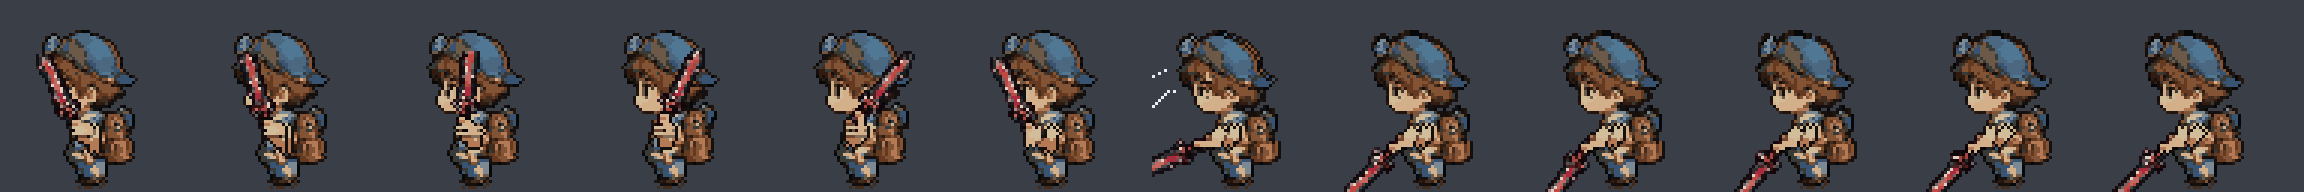
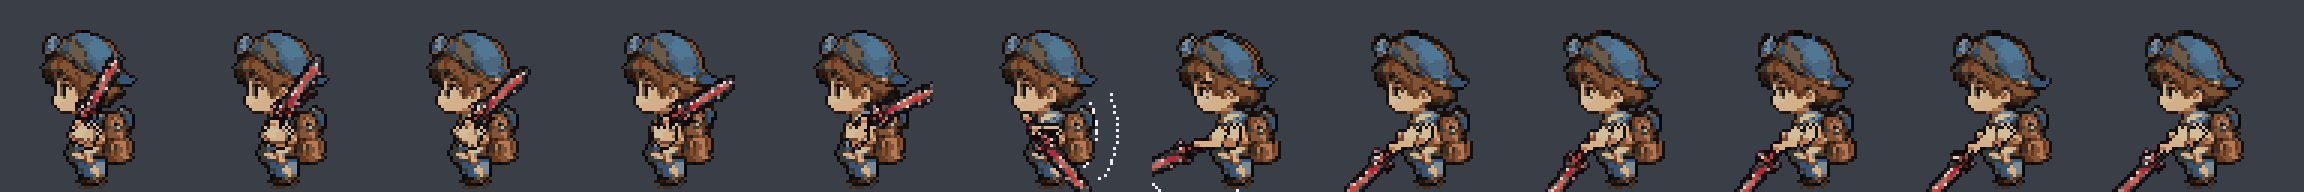
Anim test: SL01 roll polish - tuck pose, dust, shorter kneel, cleaner wind-up, softer waves, sounds
Claude-Session: https://claude.ai/code/session_01GQscemcyhAULQ41Vq3Zx3F

diff --git a/reborner/tools/sprites/rion_rig.py b/reborner/tools/sprites/rion_rig.py
@@ -45,8 +45,11 @@ KEYS = {
 		(0.7, -2, 0, (20, 41), (15, 40), 0), (1.0, 0, 0, (24, 45), (23, 47), 0)],
 	# ชันเข่าฟันสองมือ (kwan 10 ต.ค. "ถึงตัวมอน จับดาบสองมือ ชันเข่าข้างนึง ฟันเต็มแรง") — ใช้หลังกระโดดม้วนลงหน้าเป้า · จบท่าค้างคุกเข่า
 	#   ตัวฐาน = ภาพทรุดเข่า west_k0 (KNEEL_BASE) · ง้างพาดบ่า ดาบอยู่หน้าตัว (ชูเหนือหัวไม่ได้ หัวโตบังหมด) → ฟาดลงหน้า → ค้างคุกเข่า
-	'kneel2': [(0.0, 0, 0, (26, 44), (25, 41), 115), (0.35, 1, 0, (28, 42), (28, 38), 50), (0.5, -2, 0, (21, 47), (17, 48), 205),
+	'kneel2': [(0.0, 0, 0, (26, 44), (26, 41), 60), (0.35, 1, 0, (29, 43), (30, 40), 25),   # ง้างไปหลังเหนือเป้ ใบดาบไม่พาดหน้า
+		 (0.5, -2, 0, (21, 47), (17, 48), 205),
 		(0.62, -2, 0, (21, 48), (17, 50), 235), (1.0, -1, 0, (21, 48), (18, 49), 225)],
+	# ขดตัวม้วนกลางอากาศ (kwan 10 ต.ค. "ปรับท่าม้วนให้เป็นท่าขดตัว") — ตัวฐานทรุดเข่า บีบลำตัว ก้มหัว มือกอดด้ามดาบแนบเข่า ใบชี้ไปหลังเลียบตัว
+	'tuck': [(0.0, 0, 0, (22, 49), (21, 51), 345), (1.0, 0, 0, (22, 49), (21, 51), 345)],
 }
 # สรีระต่อคีย์ (kwan 6 ต.ค. "ร่างกายแข็ง ไม่เป็นธรรมชาติ ปรับสรีระให้เข้ากับทุกแอกชั่น") — เวลาเดียวกับ KEYS ทีละตัว
 #   lean เอนช่วงบน (+ = ไปหลัง/ขวา − = โถมไปหน้า) · sq ย่อเข่า (แถว) · st ก้าวขา (+1 = ขาหน้าก้าวไปหน้าเต็ม −1 = ถอยขาหน้า) ·
@@ -60,16 +63,17 @@ BODY = {
 	'aim': [Z, B(sq=1, st=0.6), B(lean=1, sq=1, st=0.8, hx=-1), B(lean=3, sq=1, st=0.8, hd=1, pk=1), B(lean=1, sq=1, st=0.8, hx=-1), Z],
 	'punch': [B(sq=1, st=0.5), B(sq=1, st=0.5), B(lean=2, sq=2, st=-0.3, ch=1, pk=-1), B(lean=-3, sq=1, st=1, hx=-1, pk=1), B(lean=-2, sq=1, st=1, hd=1), B(sq=1, st=0.5)],
 	'point': [Z, B(lean=1, st=0.4, ch=-1), B(lean=-2, sq=1, st=0.9, hx=-1, pk=1), B(lean=-2, sq=1, st=0.9), Z],
+	'tuck': [B(st=0, sq=7, lean=-6, ch=1, hd=2, hx=-2), B(st=0, sq=7, lean=-6, ch=1, hd=2, hx=-2)],
 	'kneel2': [B(st=0), B(st=0, lean=2, pk=-1), B(st=0, lean=-3, hd=1, hx=-1, pk=1), B(st=0, lean=-3, hd=1, pk=1), B(st=0, lean=-2, hd=1)],
 }
 # มือหลังจับด้ามด้วยในท่าสองมือ (ชดเชยจากมือหน้า) · ประทับปืน มือหลังประคองใต้ลำ
 BACK = {'swing2': (5, 0), 'aim': (5, 1), 'kneel2': 'hilt'}   # hilt = มือหลังจับด้ามถัดลงไปตามแนวด้าม (ดาบตั้ง/เฉียง)
-KNEEL_BASE = {'kneel2': ('west_k0.png', (-1, 4))}   # ตัวฐานต่อท่า + ไหล่เลื่อน (dx, dy) เทียบภาพยืน · ท่านี้อาวุธอยู่หน้าตัวเสมอ
+KNEEL_BASE = {'kneel2': ('west_k0.png', (-1, 4)), 'tuck': ('west_k0.png', (-1, 4))}   # ตัวฐานต่อท่า + ไหล่เลื่อน (dx, dy) เทียบภาพยืน · ท่านี้อาวุธอยู่หน้าตัวเสมอ
 BEHIND_ANG = (15, 110)   # อาวุธชี้ขึ้น/ไปหลัง (มุมจอในช่วงนี้) = อยู่หลังตัว (พาดบ่า · ง้าง) · รอบแรกใช้ช่วงเวลา แล้วอาวุธหายหลังหัว
 FAM = {'SL': 'slash', 'PC': 'thrust', 'CR': 'swing2', 'ST': 'aim', 'BD': 'punch', 'DV': 'point'}
 W_FAM = {'W301': 'SL', 'W302': 'CR', 'W303': 'SL', 'W304': 'CR', 'W305': 'SL', 'W306': 'ST', 'W307': 'CR', 'W308': 'CR', 'W309': 'CR', 'W310': 'ST'}
 LEN_K = {'SL': 0.72, 'PC': 0.95, 'CR': 0.8, 'ST': 0.6}   # ความยาวในมือ / ความยาวรูปในไอคอน 32px
-VARIANTS = [('SL01', 'kneel2', 'K')]   # ท่าพิเศษ: <code><suffix>_<i>.png ไม่อยู่ใน index (rigCodes ไม่เห็น) · หน้าเทสเรียกชื่อตรง
+VARIANTS = [('SL01', 'kneel2', 'K'), ('SL01', 'tuck', 'T')]   # ท่าพิเศษ: <code><suffix>_<i>.png ไม่อยู่ใน index (rigCodes ไม่เห็น) · หน้าเทสเรียกชื่อตรง
 SAMPLES = ['SL01', 'SL30', 'PC01', 'PC30', 'CR01', 'CR30', 'ST01', 'ST30', 'BD01', 'BD30', 'DV07', 'DV29', 'W301', 'W309']
 
 def ease(p): return p * p * (3 - 2 * p)
@@ -193,8 +197,14 @@ def render(code, icon, group=None):
 			if behind: out.alpha_composite(spr, at)
 			out.alpha_composite(body)
 			if group in BACK:
-				bx, by = BACK[group] if BACK[group] != 'hilt' else (-4 * math.cos(math.radians(ang)), 4 * math.sin(math.radians(ang))); sb = mv(SHB); hb = tuple(ri(v) for v in P64.reach(sb, (hd[0] + bx, hd[1] + by))); eb = P64.ik(sb, hb); G.draw_arm(out, sb, (ri(eb[0]), ri(eb[1])), hb, back=True, w_upper=3)
+				bx, by = BACK[group] if BACK[group] != 'hilt' else (-5 * math.cos(math.radians(ang)), 5 * math.sin(math.radians(ang))); sb = mv(SHB); hb = tuple(ri(v) for v in P64.reach(sb, (hd[0] + bx, hd[1] + by))); eb = P64.ik(sb, hb); G.draw_arm(out, sb, (ri(eb[0]), ri(eb[1])), hb, back=True, w_upper=3)
 			if not behind: out.alpha_composite(spr, at)
+			if BACK.get(group) == 'hilt':   # กำปั้นมือหลังทับด้าม (ที่ 64px มือหลังโดนใบดาบบังหมด มองไม่ออกว่าจับสองมือ)
+				px = out.load()
+				for dx2 in (0, 1):
+					for dy2 in (0, 1):
+						q = (hb[0] + dx2 - 1, hb[1] + dy2 - 1)
+						if 0 <= q[0] < 64 and 0 <= q[1] < 64: px[q] = (G.SKIN_D if dy2 else G.SKIN) + (255,)
 			P64.draw_arm_soft(out, sh, el, hd)
 			if prev is not None and abs((ang - prev + 540) % 360 - 180) > SMEAR_DEG: smear(out, hd, prev, ang, L)
 			prev = ang

diff --git a/reborner/CLAUDE.md b/reborner/CLAUDE.md
@@ -625,6 +625,11 @@ Sim ปิดตัวเองเมื่อรัน headless · บรรท
       ตัวฐาน = ภาพทรุดเข่า west_k0 (`KNEEL_BASE` ไหล่ −1,+4) · มือหลังจับด้ามตามแนวด้าม (`BACK 'hilt'`) · ดาบอยู่หน้าตัวทุกเฟรม (ชูเหนือหัวไม่ได้ หัวโตบัง) · ตรวจแล้วริกเดิม 5 ชิ้น 60 เฟรมไม่เปลี่ยนสักพิกเซล
       ข้อจำกัด: ท่าคุกเข่าเป็นภาพเดียว (ไม่ขยับขา) · ช่วงง้างใบดาบพาดผ่านหน้าบางเฟรม
       **ไม่ชะงัก (kwan 10 ต.ค. "ใช้โมเมนตัมที่กระโดดมา")**: กระทบย้ายเป็นเฟรม 32 = แตะพื้น (`ROLL.HIT` 32 · ATK 18) · 3 เฟรมท้ายของการม้วนง้างดาบสองมือกลางอากาศ (ริก SL01K 3–5 หมุนตามตัว) · แตะพื้นแล้วไถลต่อ 7px ใน 4 เฟรม · ฟันวิญญาณ 3 ระลอกเลื่อนมาตามกระทบ
+      **ปรับ 6 ข้อ (kwan 10 ต.ค. "ปรับมาทั้ง 6 อย่าง" · Version 66)**: (1) ม้วน = ท่าขดตัว `tuck` (ริก SL01T · ตัวฐานทรุดเข่าบีบ 7 แถว ก้มหัว ดาบแนบตัว) · ย่อเตรียมกระโดดใช้ท่าทรุดเข่า
+        (2) ฝุ่นตอนถีบพื้น 4 ก้อน · ตอนแตะพื้นฝุ่นตามหลังเข่า 6 ก้อน + รอยลากบนพื้น (`under` ใน rollView) · (3) คุกเข่าค้าง 32–49 (เดิมถึง 57) ตีลังกากลับ 50–61 ยืนที่เดิม 62–69
+        (4) kneel2 ง้างไปหลังเหนือเป้ (มุม 60→25) ใบดาบไม่พาดหน้า · กำปั้นมือหลัง 2×2 ทับด้าม ห่าง 5 จุดตามแนวด้าม · (5) ระลอก 2–3 เหลือแค่รอยฟัน (ไม่มีแสงวาบ/ควัน/สายฟ้าซ้ำ) ดาววาบ 45% · จอวาบ/ภาพซ้อน 40%
+        (6) เสียง `AU_ROLL` + `rollSound`: ถีบพื้น 14 · ลมหมุน 3 ครั้ง · เงื้อดาบ 29 · ตะโกน 30 · ไถล 33 · ตีลังกา 50 · กระทบระลอก 2–3 (40/46) · ตรวจแล้วเรียกครบตามเฟรม ไม่มี error
+        เสียง "ตายซะ" = `auYell` สังเคราะห์ formant 2 พยางค์ (ต-าย · ซ-ะ) **ไม่ใช่เสียงพูดจริง** · ยังไม่ได้ฟังด้วยหูจริง · ปิดเสียงชาร์จ/ปล่อยเดิมของท่าในคลิปนี้ (ซ้ำกับเสียงม้วน)
 - **แก้เกม (BattleScreen FX) แล้วต้องสร้างหน้านี้ใหม่ด้วย** — เอฟเฟกต์ในหน้าเป็นสำเนา JS ของ `_fx_*` ไม่ได้อ่านจากเกมอัตโนมัติ
 
 ## สำเนาใน Google Drive — อัปโหลดเฉพาะเมื่อ kwan สั่งเป็นครั้งๆ
